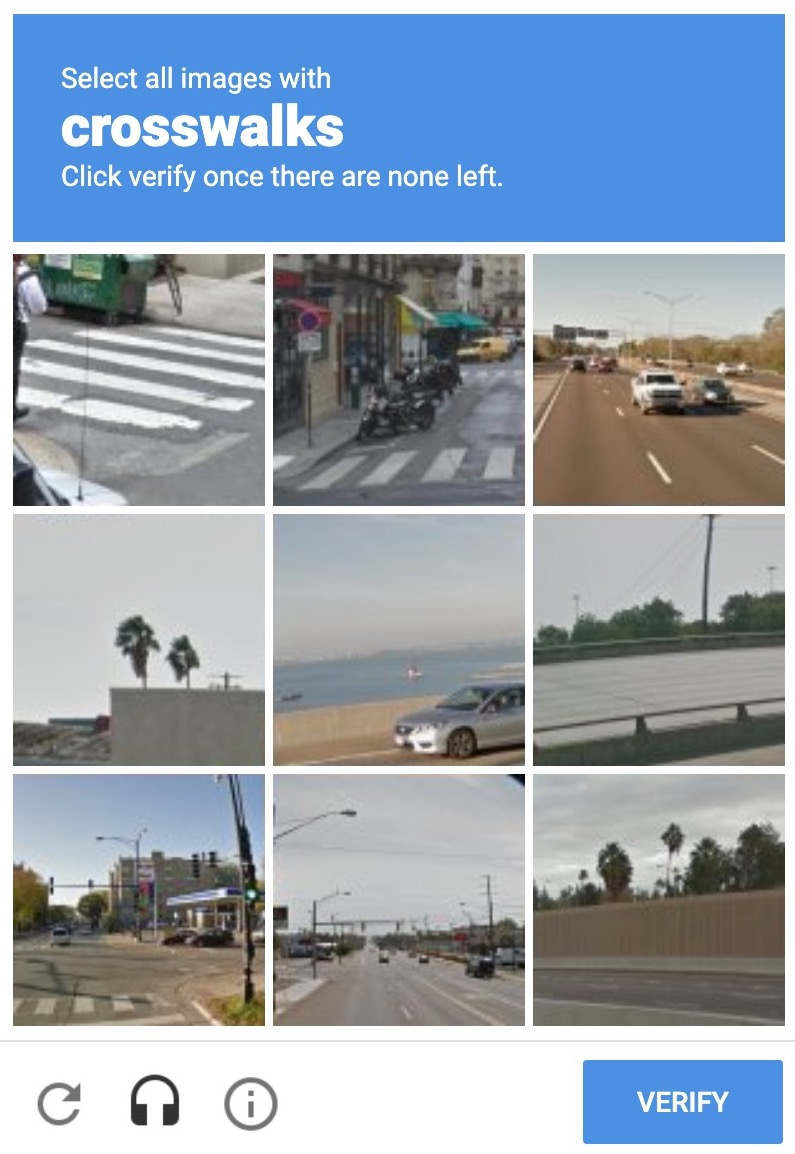
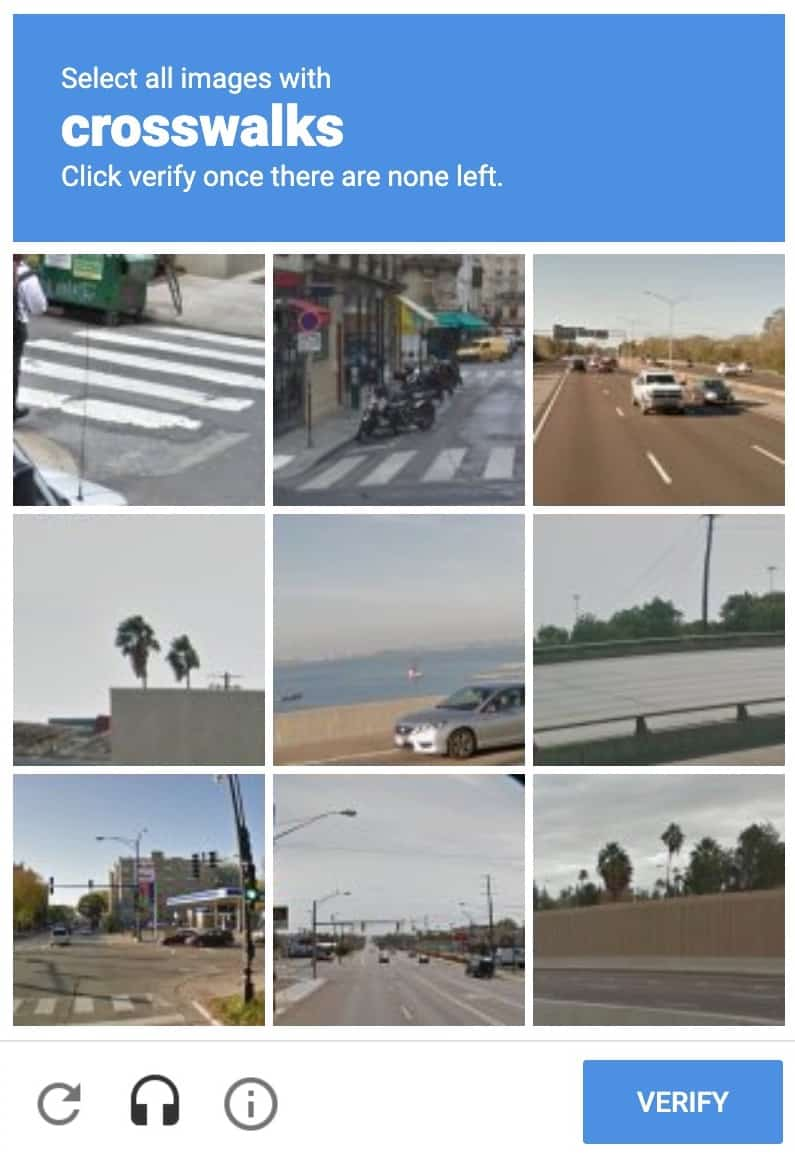
:zap: optimized images

diff --git a/src/blog/integrating-recaptcha-with-nextjs.md b/src/blog/integrating-recaptcha-with-nextjs.md
@@ -43,7 +43,7 @@ The way it works is as soon as the user submits the form, you execute the reCAPT
 
 Now this will prevent your frontend from malicious attacks. However, your backend APIs might still be insecure (assuming you are not using any other kind of protection, e.g., [CSRF tokens](https://cheatsheetseries.owasp.org/cheatsheets/Cross-Site_Request_Forgery_Prevention_Cheat_Sheet.html)) because anyone can open the network tab to check the APIs getting pinged and run a script to ping the API with spam data. Thankfully reCAPTCHA provides a solution for that as well. When a user successfully clears the reCAPTCHA, you are provided with a token that is valid for 2 minutes. You can now validate this token in your backend with a secret key to verify the request's authenticity.
 
-<img class="article-img" src="../img/recaptcha-working.png" alt="Working of reCAPTCHA" />
+<img class="article-img" src="../img/recaptcha-working.jpg" alt="Working of reCAPTCHA" />
 
 <h2 id="setting-up-the-project">Setting up the project</h2>
 
@@ -65,7 +65,7 @@ Let's register a new project on reCAPTCHA and get the required keys. For that, y
 
 After clicking submit, you should be able to see the public and secret keys. 
 
-<img class="article-img" src="../img/recaptcha-keys.png" alt="reCAPTCHA keys" />
+<img class="article-img" src="../img/recaptcha-keys.jpg" alt="reCAPTCHA keys" />
 
 To have separate keys for production and development environments and avoid pushing these keys to version control, we would store these keys in the environment variables. Unlike typical react app setups where you would need to manually [setup environment variables manually via Webpack plugins](https://prateeksurana.me/blog/using-environment-variables-with-webpack/), Next.js comes with [built-in support for environment variables](https://nextjs.org/docs/basic-features/environment-variables). For the development environment, create a file called `.env.local` and add the following to it, and paste the keys you copied from the reCAPTCHA dashboard here appropriately.
 
